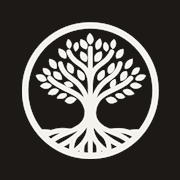
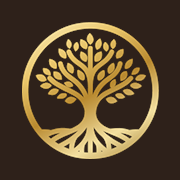
Bieu tuong app: nhu vang champagne tren nen nau espresso (mau A)
- build-brand-assets.ps1: Get-TintedMark (to mot mau phang) -> Get-MetallicMark,
  ve dai gradient cheo 5 chang sang-sam-sang roi muon kenh alpha cua logo goc
  lam hinh dang. Chuyen 2 mau chi ra mau loang, khong ra cam giac kim loai.
- Nen doi #1C1917 -> #2E211A, dong bo dung 4 cho: script, manifest.ts
  (theme_color + background_color), layout.tsx (themeColor), colors.xml
  (ic_launcher_background - quen cho nay thi Android 8+ ra nhu vang tren nen den)
- sw.js v3 -> v4 de may da cai PWA khong giu icon cu
- Logo trong app va mau nhan matcha giu nguyen theo y anh Toan

Changed region(s): [[0.1111, 0.1111, 0.8889, 0.8889]]

diff --git a/apps/web/src/app/manifest.ts b/apps/web/src/app/manifest.ts
@@ -9,8 +9,10 @@ export default function manifest(): MetadataRoute.Manifest {
     scope: "/",
     display: "standalone",
     orientation: "any",
-    background_color: "#1c1917",
-    theme_color: "#1c1917",
+    // Nâu espresso — khớp nền biểu tượng. Đây cũng là màu MÀN HÌNH CHỜ lúc mở PWA,
+    // lệch màu là hở một vệt quanh biểu tượng.
+    background_color: "#2e211a",
+    theme_color: "#2e211a",
     lang: "vi",
     icons: [
       {

diff --git a/apps/web/public/sw.js b/apps/web/public/sw.js
@@ -4,7 +4,7 @@
 
 // ⚠ Đổi biểu tượng/asset tĩnh hoặc chiến lược cache thì PHẢI tăng số bản (v3 → v4),
 // nếu không máy đã cài PWA sẽ giữ mãi bản cũ. Bản 'activate' bên dưới tự xoá cache cũ.
-const CACHE = "toda-pos-shell-v3";
+const CACHE = "toda-pos-shell-v4";
 const SHELL = ["/", "/manifest.webmanifest", "/icon-192.png", "/icon-512.png"];
 
 self.addEventListener("install", (event) => {

diff --git a/apps/web/src/app/layout.tsx b/apps/web/src/app/layout.tsx
@@ -30,7 +30,8 @@ export const metadata: Metadata = {
 };
 
 export const viewport: Viewport = {
-  themeColor: "#1c1917",
+  // Nâu espresso — màu thanh trạng thái, khớp nền biểu tượng và manifest
+  themeColor: "#2e211a",
   width: "device-width",
   initialScale: 1,
   viewportFit: "cover",
